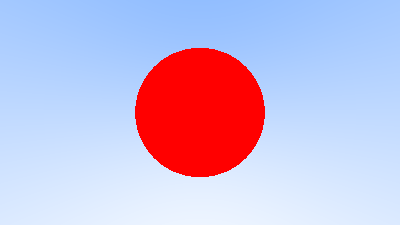
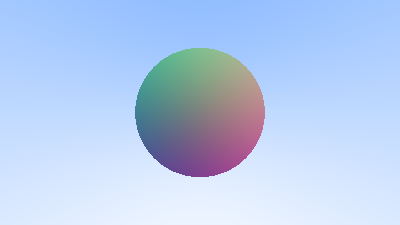
Color normals of sphere (color mismatch)

Changed region(s): [[0.33, 0.1867, 0.66, 0.8089]]

diff --git a/ray.go b/ray.go
@@ -1,6 +1,9 @@
 package main
 
-import "image/color"
+import (
+	"image/color"
+	"math"
+)
 
 type Ray struct {
 	origin    Vec3
@@ -13,22 +16,27 @@ func (r Ray) At(t float64) Vec3 {
 }
 
 func (r Ray) Color() color.RGBA {
-	unitDirection := r.direction.Unit()
-	if r.hitSphere(Vec3{0, 0, -1}, 0.5) {
-		return Vec3{1, 0, 0}.RGBA()
+	t := r.hitSphere(Vec3{0, 0, -1}, 0.5)
+	if t > 0.0 {
+		N := r.At(t).Unit().Sub(Vec3{0, 0, -1})
+		return Vec3{N.x + 1, N.y + 1, N.z + 1}.ScalarMul(0.5).RGBA()
 	}
-	t := 0.5 * (unitDirection.y + 1.0)
+	unitDirection := r.direction.Unit()
+	t = 0.5 * (unitDirection.y + 1.0)
 	a := Vec3{1.0, 1.0, 1.0}.ScalarMul(1.0 - t)
 	b := Vec3{0.5, 0.7, 1.0}.ScalarMul(t)
 	return a.Add(b).RGBA()
 
 }
 
-func (r Ray) hitSphere(center Vec3, radius float64) bool {
+func (r Ray) hitSphere(center Vec3, radius float64) float64 {
 	oc := r.origin.Sub(center)
 	a := r.direction.Dot(r.direction)
 	b := 2.0 * oc.Dot(r.direction)
 	c := oc.Dot(oc) - radius*radius
 	discriminant := b*b - 4*a*c
-	return (discriminant > 0)
+	if discriminant < 0 {
+		return -1.0
+	}
+	return (-b - math.Sqrt(discriminant)) / (2.0 * a)
 }
